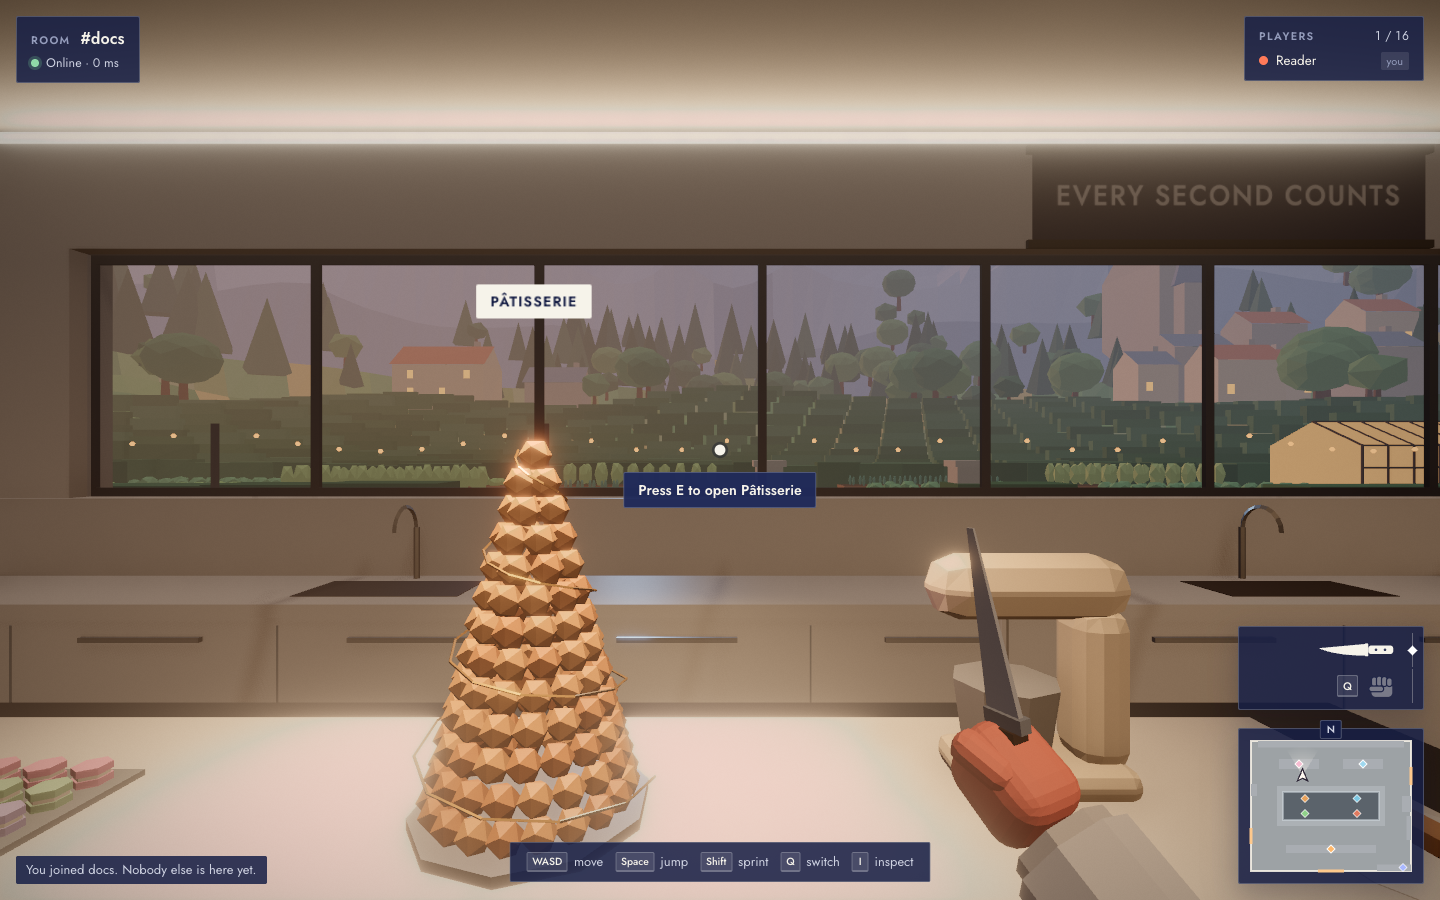
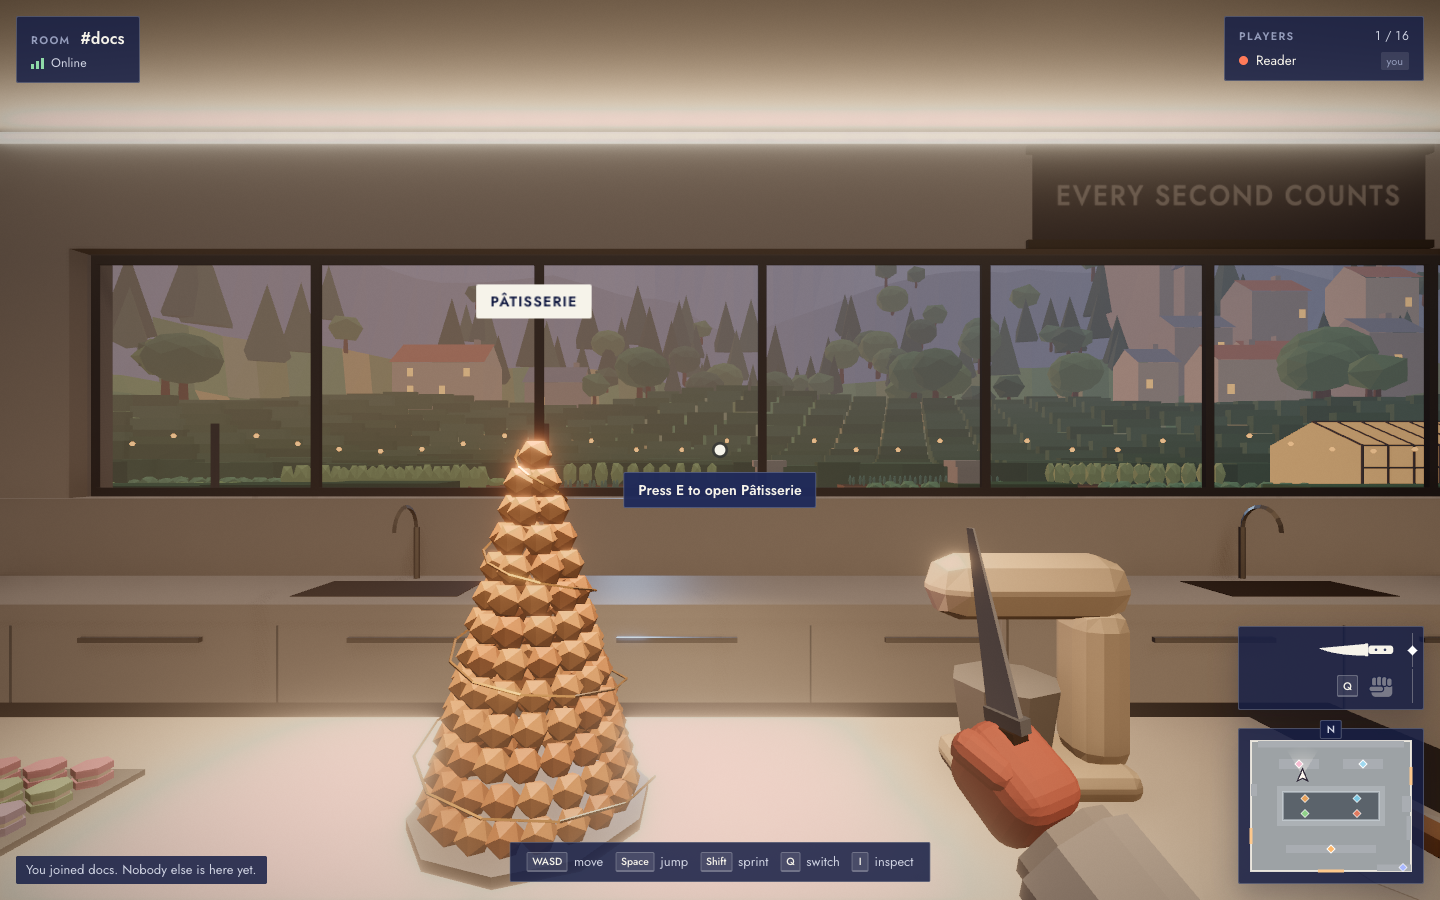
Document the polish pass and the visitor's hours, propose the flashback
Decisions for the HUD, hits and the settings menu, and for the time of
day and the LED clock; CLAUDE.md points at ?time= for judging lighting.
Screenshots are pinned to 8 p.m. so they do not depend on when they are
taken. docs/flashback-proposal.md lays out the Ratatouille flashback
for approval.

diff --git a/scripts/screenshots.ts b/scripts/screenshots.ts
@@ -5,6 +5,7 @@
  *
  * Starts whatever is missing (Vite dev client on :5173, room server on :3001) plus a few bots so
  * the world has people in it, then drives a real (GPU-backed, headless) Chromium like a visitor.
+ * The hour is pinned to evening service (8 p.m.), so the pictures do not depend on when they are taken.
  */
 import { spawn, type ChildProcess } from 'node:child_process';
 import { mkdir } from 'node:fs/promises';
@@ -42,7 +43,7 @@ function run(command: string, args: string[]): ChildProcess {
 }
 
 async function enter(page: Page, name: string, room = ''): Promise<void> {
-  await page.goto(`${clientUrl}/?quality=high`);
+  await page.goto(`${clientUrl}/?quality=high&time=20:00`);
   await page.getByRole('button', { name: 'Enter world' }).waitFor({ timeout: 30_000 });
   await page.getByLabel('Your name').fill(name);
   await page.getByLabel('Room code').fill(room);
@@ -103,7 +104,7 @@ async function main(): Promise<void> {
     const context = await browser.newContext({ viewport: { width: 1440, height: 900 } });
     const page = await context.newPage();
 
-    await page.goto(`${clientUrl}/?quality=high`);
+    await page.goto(`${clientUrl}/?quality=high&time=20:00`);
     await page.getByRole('button', { name: 'Enter world' }).waitFor({ timeout: 30_000 });
     await page.getByLabel('Your name').fill('Curious Otter');
     await page.waitForTimeout(2500);

diff --git a/docs/flashback-proposal.md b/docs/flashback-proposal.md
@@ -1,0 +1,64 @@
+# Proposal: the Ratatouille flashback
+
+Status: for Daniel's approval.
+Nothing here is built yet.
+
+## The moment
+
+In Ratatouille, the critic Anton Ego takes one bite and the restaurant falls away: he is a boy again, in his mother's kitchen, being comforted with a plate of ratatouille.
+The site can have its own version, and it is the one place where a portfolio can say something no résumé can: what food, and making things, mean to Daniel.
+The aim is one short, surprising, personal moment of about twenty seconds that people remember and tell others about.
+
+## How it would play
+
+1. **The invitation.** A plate on the pass, under its own heat lamp, glows a little warmer than the rest.
+   Hovering it says "Press E to taste" instead of opening a panel.
+2. **The bite.** The interface fades away.
+   The camera pushes in on the plate, a fork lifts, and everything holds still for a breath.
+3. **The fall.** The view does a dolly zoom, the field of view opening as the camera rushes in, the way the film's camera rushes at Ego.
+   The kitchen washes out to warm white.
+4. **The memory.** A small scene in the same low-poly style fades up: a place from Daniel's childhood, in afternoon light through one window, someone at a stove with their back turned, a plate set at a table.
+   The camera drifts slowly.
+   One or two lines in the house serif fade in and out, written by Daniel: where and when, and what it taught him.
+5. **The return.** The memory blurs back to white and the kitchen returns, at the pass, the plate now half eaten.
+   A card in the style of a critic's note gives Daniel's one-line philosophy, and Chef Skinner, for once, says something kind in chat.
+6. **Afterwards.** A new entry unlocks at the pass ("Why I cook", or "Why I build"), for anyone who wants to read more.
+
+Any key or click after the first two seconds skips straight to the return, and Esc always does.
+
+## Choices to make
+
+1. **Which memory, and which dish.**
+   The five plates already on the pass are Daniel's favorites (char siu, beetroot, roti, ricotta toast, truffle croissant).
+   The flashback is strongest attached to one of them, with a real memory behind it, rather than to a literal ratatouille.
+   A ratatouille could also be added as a sixth plate for the reference.
+2. **What the memory is made of.**
+   - A small 3D diorama of the place, built like the rest of the world: the most immersive, and on style.
+   - A real photo, shown like a print in warm light with slow parallax: the most personal, and quick to make.
+   - Both: the diorama, with the photo framed on its wall. This is the recommendation.
+3. **One memory, or one per plate.**
+   One is a moment.
+   Five are a collection ("taste everything on the pass"), which gives people a reason to come back and explore.
+   Starting with one and adding more later costs nothing extra.
+4. **Safe while tasting?**
+   Chef Skinner already leaves anyone standing still alone.
+   Other players' knives could still knock someone out of the memory.
+   Making tasters immune needs the server to know about it: a protocol change and a deploy of the room server.
+
+## How it would be built
+
+- The memory is its own small scene, loaded only the first time someone tastes, so it costs nothing for anyone who does not.
+- During the flashback that scene is drawn instead of the kitchen, so it is no heavier than normal play.
+- The sequence is a short timeline (push in, hold, dolly zoom, crossfade, captions, return) in one new module, driven from the same frame loop as everything else.
+- Captions are real text, so screen readers get them.
+  With reduce motion on, the dolly zoom and camera moves become plain crossfades.
+- Other players see the taster standing at the pass with a fork, and the kill feed and chat carry on as normal.
+- Tests: an E2E test that tastes, checks the memory and its captions appear, skips, and checks the player is back at the pass in control; unit tests for the timeline.
+- If sound is added later, the moment wants its own original music cue (not the film's score).
+
+## What is needed from Daniel
+
+- The memory: where, when, who, and why it matters, in a few sentences.
+- One to three short lines for the captions (a draft can be written from the above for Daniel to edit).
+- Optionally a photo, and permission to use it.
+- Answers to the four choices above.

diff --git a/DECISIONS.md b/DECISIONS.md
@@ -305,3 +305,24 @@ Judgment calls made during the unattended build, with reasons.
 - **He is fair, and leaves readers alone.** He walks a hand-made graph of the aisles rather than finding paths, which is enough in one room and never wedges him against a counter.
   Before throwing he stops and turns to face his target for 0.6 s, so the throw can be seen coming and dodged; he leads a moving target along the knife's real arc, with enough error that most throws at a cook on the move miss (about 10 throws and 4 or 5 knockouts in two minutes of pacing, in the tests).
   He ignores anyone in their first 8 seconds and anyone who has stood still for 3, which is what reading a station looks like, and he speaks at most every 25 seconds.
+
+### Polish: the HUD, hits and the menu (2026-10-07)
+
+- **The HUD talks like a game, not a dev build.** The connection reads Online with signal bars (the round trip in the tooltip), Connecting, or Solo; the old "Offline · solo mode · retrying in 9s" ticked down forever.
+  Retries still happen, quietly. A "Click to look around" cue under the crosshair replaces a toast that repeated every time play resumed, and the same toast never shows twice at once.
+  The loading screen names the place in the house type and says "Lighting the lamps", not "Warming up shaders".
+- **Hits land.** A knife in you flares the screen edges red and snaps the view back with a short shake; a beat later (0.45 s, so the flash and the fall read first) the knockout card names the thrower in their color, over a drained, dimmed world, with a bar running down to the respawn, and waking up blinks.
+  The thrower gets a hit marker and the victim's name under the crosshair. Everyone sees a kill feed under the player list; kill lines left the chat, which is for people.
+  The red edge is a gradient, the one exception to the house style's solid colors: it is a screen effect, not interface.
+- **The pause menu is a settings menu**, with Settings and Controls tabs: mouse sensitivity, field of view, invert vertical look, graphics (auto, high, low; the scene is built for one tier, so a change offers a reload), a frame rate readout, and reduce motion (no bob, shake or flash; on by default when the system asks).
+  Settings persist; sensitivity keeps its old storage key so nobody loses theirs.
+- **Not done**: reflections in the night windows (an environment map at infinity only smeared the lamps across them) and doors that open; both would need more than polish.
+
+### The visitor's hours (2026-10-07)
+
+- **The kitchen keeps the visitor's local time.** Nine hand-tuned looks sit at hours of the day (night, dawn, morning, midday, afternoon, the golden hour, the blue hour, late evening), each a sky gradient, a sun direction, stars, moon, the light on the land, whether the lamps outside are lit, and the light through the windows; any time between blends the two either side.
+  The evening service look the room was lit for is the blue hour, unchanged.
+- **The view is repainted every quarter hour, when the browser is idle**: painting takes a few tens of milliseconds, a hitch nobody should feel mid-throw.
+- **By day the room is brighter but keeps its contrast.** The first try simply turned the window light and the sky fill up four times, and the white walls blew out; daylight comes in soft, mostly through the fill, while the kitchen's own lamps stay on as they would during service.
+- **A red LED clock** shows the visitor's time with the seconds running (every second counts), hung under the front of the hood between the heat lamps, where the aisle by the dining room doors looks straight at it, and on the hood's north face under the stars.
+  It is drawn as seven-segment digits with the unlit segments faintly there, follows the visitor's 12 or 24 hour habit, and redraws only when the second changes.

diff --git a/CLAUDE.md b/CLAUDE.md
@@ -66,8 +66,10 @@ node scripts/perf.ts         # 16-player perf report (needs the dev client on :5
   Keep `scene.environmentIntensity` tiny and raise `envMapIntensity` on metals instead; a brighter environment lights everything from every side and flattens the room.
 - A GPU-bound frame is input lag, not just a lower frame rate (the browser queues frames). `world/governor.ts` steps the high tier's resolution, MSAA and AO down to keep up with the display; the level it settles on is stored in `localStorage` (`world.renderLevel`), so clear it when judging a visual change.
   Perf and screenshots run at device pixel ratio 1; check retina (ratio 2) too, where the high tier costs four times the pixels.
-- The view outside the windows is real geometry in `world/outside.ts`, one unlit layer with its dusk light and haze baked into vertex colors.
+- The view outside the windows is real geometry in `world/outside.ts` (`OutsideView`, one unlit mesh), its light and haze baked into vertex colors.
   `outside.test.ts` raycasts every pane and skylight; keep it passing when moving the land, the sky or the windows, or a visitor will see an edge.
+- The light follows the visitor's local time (`world/timeOfDay.ts`): looks at hours of the day, blended between, repainted every quarter hour.
+  `?time=20:00` pins the hour; screenshots use it, and so should anyone judging a lighting change (the evening look is the reference).
 - The first player in a room spawns at `SPAWN`, by the dining room doors with the pass just ahead; E2E walking paths rely on that, strafing along the aisle or rounding the west end of the pass.
 
 <!-- BEGIN AWS Agent Toolkit rules -->
